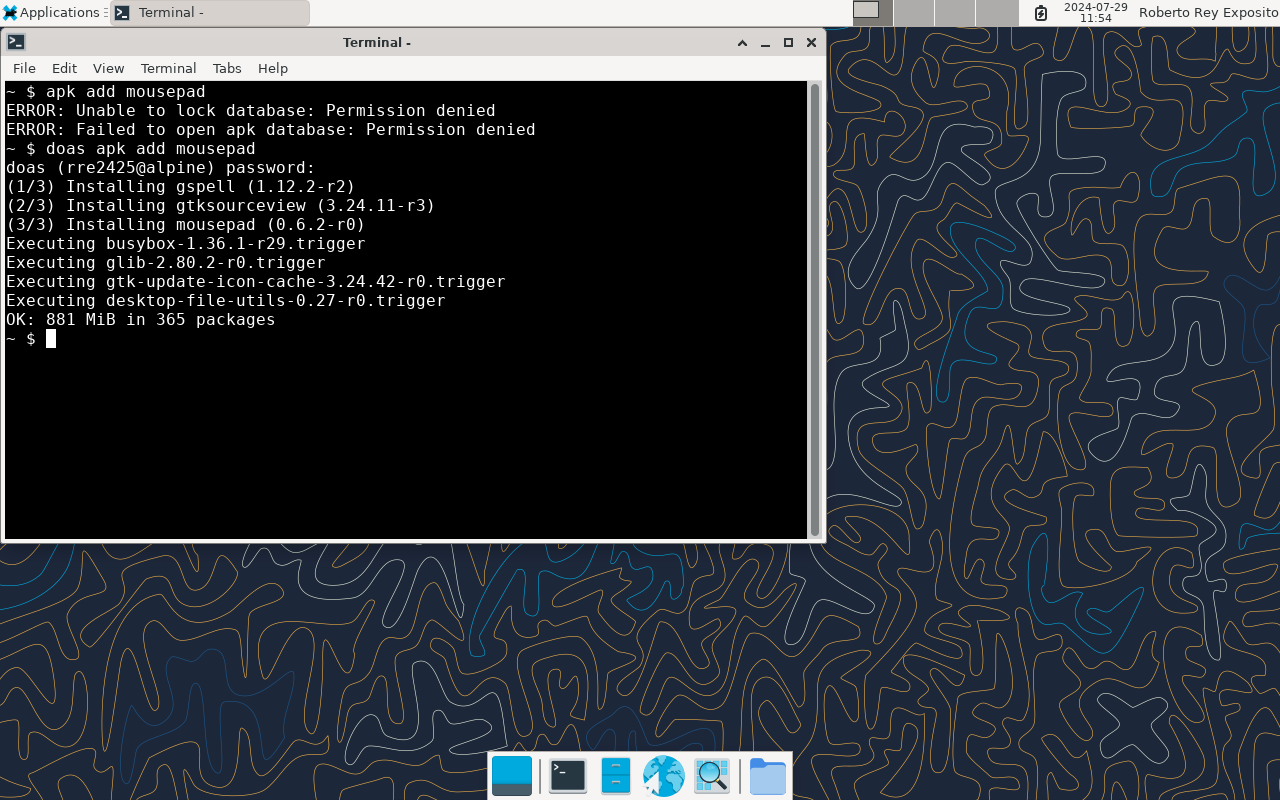
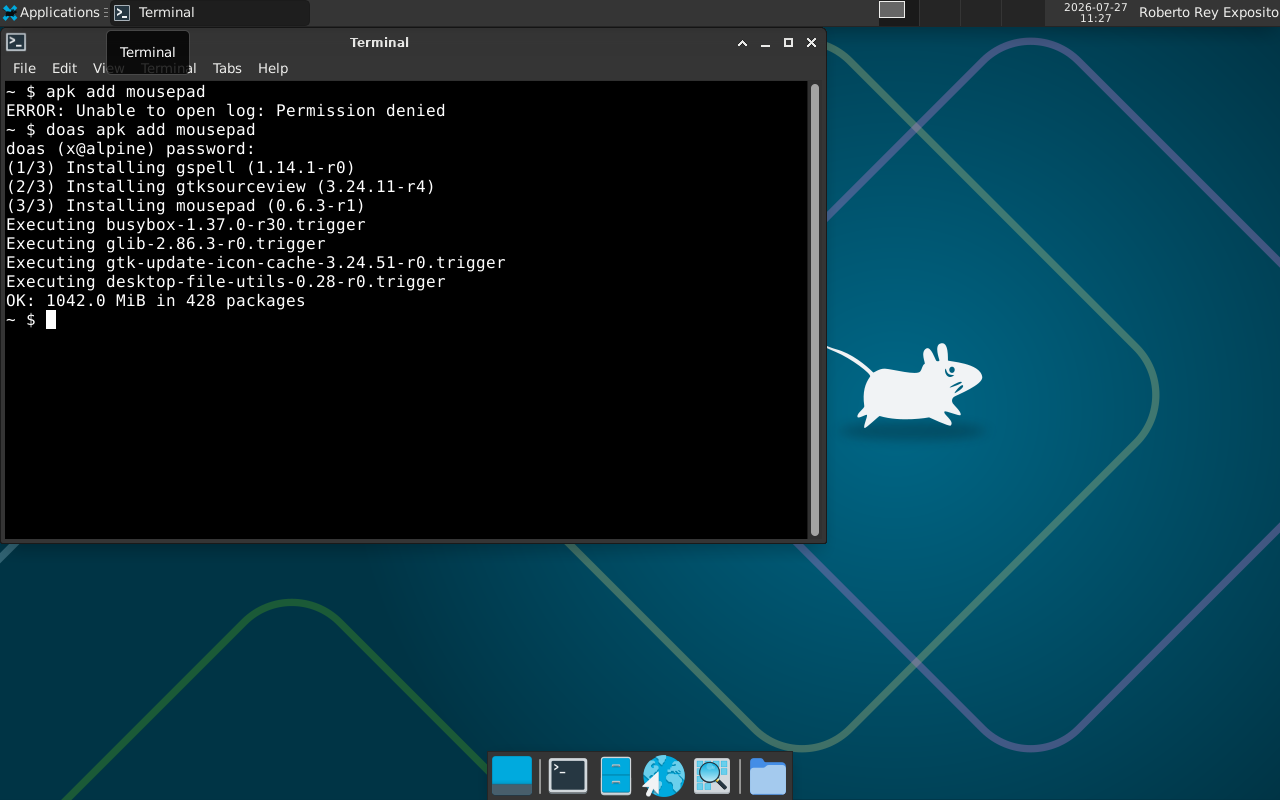
Actualización para 26/27

diff --git a/alpine-install-vbox/index.html b/alpine-install-vbox/index.html
@@ -9,10 +9,8 @@
   <h1>Instalación de Alpine Linux nunha VM de VirtualBox</h1>
   <p style="font-size:125%;">A seguinte secuencia de capturas mostra a instalación de Alpine Linux 3.20 coas opcións que hai que seleccionar en cada paso. 
   <ol>
-  <li><a href="https://dl-cdn.alpinelinux.org/alpine/v3.20/releases/x86_64/alpine-virt-3.20.2-x86_64.iso">Descarga desde aquí</a> a imaxe ISO para x86-64 da versión <i>Virtual</i> (optimizada para VM) do Alpine Linux 3.20.
-    <!--
-    <p><b>NOTA:</b> se estiveses a usar un Macbook con procesador Apple M1-M4, terías que descargar a imaxe ISO para <a href="https://dl-cdn.alpinelinux.org/alpine/v3.20/releases/aarch64/alpine-virt-3.20.2-aarch64.iso">ARM</a>.<p/>
-    -->
+  <li>Descarga desde <a href="https://dl-cdn.alpinelinux.org/alpine/v3.23/releases/x86_64/alpine-virt-3.23.4-x86_64.iso">aquí</a> a imaxe ISO para x86-64 da versión <i>Virtual</i> (optimizada para VM) do Alpine Linux 3.23.
+    <p><b>NOTA:</b> se estiveses a usar un portátil con procesador ARM (p.ex. Apple M1-M5), terías que descargar a <a href="https://dl-cdn.alpinelinux.org/alpine/v3.23/releases/aarch64/alpine-virt-3.23.4-aarch64.iso">imaxe ISO para ARM64</a>.<p/>
   </li>
 
   <li>Inicia a VM que creaches no VirtualBox e, no diálogo que aparece para montar o DVD desde o que instalar o SO, selecciona a imaxe ISO descargada e reinicia a VM. Se che dera problemas accedendo á imaxe ISO, podes probar a apagar a VM, montar a imaxe ISO "manualmente" na unidade óptica da VM (propiedades de almacenamento da VM, véxase captura inferior), e iniciar de novo a VM.</li>
@@ -39,8 +37,8 @@
   <p><img src="Captura006.png" alt="Configuración de rede" style="width:1000px;"></p>
   
   <li>Configura agora o contrasinal do usuario <b>root</b> (o administrador do sistema) executando o comando <b>passwd</b>.
-  <p><b>Recoméndase usar "icap" (sen as aspas)</b>. Aínda que é un contrasinal moi curto e sinxelo, como xa se nos indica ao introducilo, válenos igualmente para o propósito desta práctica. Ten en conta que tes que introducilo <b>dúas veces</b>. Se decides usar outro contrasinal, <b>é moi importante que despois te lembres del</b>. Se obtés calquera erro neste paso 7, volve a executar o comando <b>passwd</b> para repetir o proceso.
-  <p><b>IMPORTANTE: non uses caracteres "raros" para o contrasinal</b>, porque vamos ter que usalo nalgunha ocasión máis adiante co teclado aínda sen configurar. Se usas o guión lembra que cando o teclado non estea configurado terás que premer a tecla que está situada <b>á dereita do 0</b>.</p>
+  <p><b>Recoméndase usar "icap" (sen as aspas)</b>. Aínda que é un contrasinal moi curto e sinxelo, como xa se nos indica ao introducilo, válenos igualmente para o propósito desta práctica. Ten en conta que tes que introducilo <b>dúas veces</b>. Se decides usar outro contrasinal, <b>é moi importante que despois te lembres del</b>. Se obtés calquera erro neste paso, volve a executar o comando <b>passwd</b> para repetir o proceso.
+  <p><b>IMPORTANTE: non uses caracteres "raros" para o contrasinal</b>, porque vamos ter que usalo nalgunha ocasión máis adiante co teclado aínda sen configurar.</p>
   <p><img src="Captura007.png" alt="Contrasinal de root" style="width:1000px;"></p>
 
   <li>Configura o disco e instala o sistema executando o comando <b>setup-disk</b>. 
@@ -53,12 +51,12 @@
   <p><b>NOTA:</b> non te preocupes se che aparecen unhas mensaxes de advertencia en vermello neste paso (por exemplo: Partition#1 contains a ext4 signature). Non son erros, xa que depende de se é a primeira vez que estás facendo a instalación ou se estás repetindo o proceso (polo que as particións no disco xa existen e somos avisados diso). Se obtiveses outros erros, podes repetir este paso executando de novo o comando <b>setup-disk</b>.</li>
   <p><img src="Captura010.png" alt="Instalación do sistema" style="width:1000px;"></p>
  
-  <li>Se todo foi ben, obterás unha mensaxe de que rematou a instalación.
+  <li>Se todo foi ben, obterás unha mensaxe de que rematou a instalación do Alpine.
   <p><img src="Captura011.png" alt="Rematou a instalación" style="width:1000px;"></p>
   <p>Apaga a VM executando o comando <b>poweroff</b></p></li>
   <p><img src="Captura012.png" alt="Apagar a VM" style="width:1000px;"></p>
 
-  <li>Antes de continuar, desde a configuración de almacenamento da VM en VirtualBox, extrae a imaxe ISO de Alpine.</li> 
+  <li>Posto que agora temos o Alpine instalado no disco da VM, xa non necesitamos a imaxe ISO. Se a deixas montada na unidade óptica, a VM volverá a iniciar desde a ISO e non desde o sistema instalado no disco. Antes de continuar, tes que extraer a imaxe ISO da VM desde a configuración de almacenamento da VM en VirtualBox (véxase captura inferior).</li> 
   <p><img src="Captura013.png" alt="Extraer a ISO" style="width:1000px"></p>
 
   </ol>

diff --git a/alpine-configure-vbox/index.html b/alpine-configure-vbox/index.html
@@ -7,7 +7,7 @@
  <body>
 
   <h1>Configuración de Alpine Linux nunha VM de VirtualBox</h1>
-  <p style="font-size:125%;">A seguinte secuencia de capturas mostra a configuración inicial de Alpine Linux 3.20 coas accións que hai que realizar en cada paso. 
+  <p style="font-size:125%;">A seguinte secuencia de capturas mostra a configuración inicial de Alpine Linux 3.23 coas accións que hai que realizar en cada paso. 
 
   <ol>
 
@@ -27,7 +27,7 @@
   <p><img src="Captura003.png" alt="Inicio sesión Xfce" style="width:1000px;"></p>
 
   <li>Configura o teclado.</li>
-   <p>Accede a Applications->Settings->Keyboard</p> 
+   <p>Accede a Applications > Settings > Keyboard</p> 
    <img src="Captura004.png" alt="Configuración do teclado" style="width:1000px;"><br>
    <p>Na lapela <b>Layout</b> desactiva a opción <b>Use system defaults</b> e engade unha nova configuración para o teclado na primeira posición da listaxe. Ten en conta que debido ao problema comentado anteriormente, esta configuración parece funcionar só dentro da sesión Xfce pero non no diálogo de inicio de sesión. Nas capturas vese un exemplo para un teclado con teclas de Windows.</p> 
   <img src="Captura005.png" alt="Configuración do teclado" style="width:1000px;"><br>
@@ -36,7 +36,8 @@
   <img src="Captura006.png" alt="Configuración do teclado" style="width:1000px;"></p>
 
   <li>Crea a túa conta de usuario. Abre un terminal e executa o comando <b>setup-user -a</b>. Como xa configuramos o teclado en español, o carácter guión xa debería estar na súa tecla correspondente.</li>
-  <p><b>IMPORTANTE: debes usar as tuas iniciais como nome para o login seguido do curso actual</b>. Exemplo: o alumno Roberto Rey Expósito no curso 2025/2026 creará un usuario con login <b>rre2526</b> (véxase a captura). Pon tamén o teu nome e apelidos completo na segunda das preguntas que fai o comando. Aínda que teñamos o teclado configurado en español na sesión Xfce, para o contrasinal, non uses caracteres "raros" para o contrasinal do teu usuario porque no diálogo de inicio de sesión o teclado seguirá configurado en inglés como xa se comentou. De novo, <b>recoméndase usar un contrasinal sinxelo como "icap" (sen as aspas)</b>. Para a chave SSH do usuario (última pregunta) acepta sen escribir nada a opción por defecto.</p> 
+  <p><b>IMPORTANTE: debes usar o teu prefixo como nome para o login (as túas iniciais seguido do curso actual), tal e como se explica  no enunciado da activiade</b>. Exemplo: o alumno Roberto Rey Expósito no curso 2026/2027 tería que crear un usuario con login <b>rre2627</b>. Na captura inferior o prefixo no se configurou, deixándose como "x". Pon o teu nome e apelidos completo na segunda das preguntas que fai o comando.</p> 
+  <p> Aínda que teñamos o teclado configurado en español na sesión Xfce, para o contrasinal, non uses caracteres "raros" para o contrasinal porque no diálogo de inicio de sesión o teclado seguirá configurado en inglés como xa se comentou. De novo, <b>recoméndase usar un contrasinal sinxelo como "icap" (sen as aspas)</b>. Para a chave SSH do usuario (última pregunta) acepta sen escribir nada a opción por defecto.</p> 
   <img src="Captura007.png" alt="Configuración do usuario" style="width:1000px;"></p>
 
   <li>Reinicia a VM executando de novo o comando <b>reboot</b> e agora inicia sesión co teu novo <b>usuario</b>.
@@ -51,7 +52,7 @@
   <li>Repite o comando anterior poñendo <b>doas</b> diante para executalo con permisos de administrador (como usuario root). Terás que introducir o contrasinal do teu usuario.</li>
   <p><img src="Captura011.png" alt="Instalación de mousepad" style="width:1000px;"></p>
 
-  <p>Unha vez instalado podes abrilo desde Applications->Accesories->Mousepad</p>
+  <p>Unha vez instalado podes abrilo desde Applications > Accesories > Mousepad</p>
   <img src="Captura012.png" alt="Abrir Mousepad" style="width:1000px;"></p>
   <img src="Captura013.png" alt="Mousepad aberto" style="width:1000px;"></p>
   <li>Agora podes curiosear o que queiras no ambiente de escritorio. Unha vez remates de curiosear <b>tes que sacar a captura para a memoria de xustificación da actividade tal e como se indica no PDF da práctica 0</b>.</li></p>
